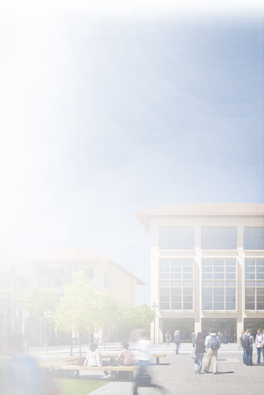
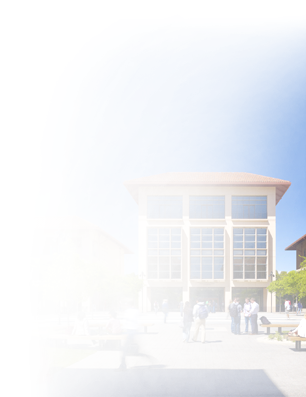
WPBQA-29 twiiter feed links and background

diff --git a/css/style.css b/css/style.css
@@ -4092,7 +4092,7 @@ ul.slideshow-items {
   background: #c1dbd9;
   padding: 28px;
   top: 0;
-  background: url('../images/bg-social-feed.png') no-repeat bottom right, #c1dbd9;
+  background: url('../images/bg-social-feed.png') no-repeat bottom left, #d3eaeb;
 }
 .twitter-feed .pane-content:after {
   content: url('../images/icon-twitter.png');
@@ -4124,6 +4124,8 @@ ul.slideshow-items {
 }
 .tweet a:hover {
   border: none;
+  color: #2d6280;
+  text-decoration: underline;
 }
 .tweet .time {
   margin-top: 7px;

diff --git a/sass/revamp-design/_social-media.sass b/sass/revamp-design/_social-media.sass
@@ -5,7 +5,7 @@
   background: #c1dbd9
   padding: 28px
   top: 0
-  +background((image_url('bg-social-feed.png') no-repeat bottom right), #c1dbd9)
+  +background((image_url('bg-social-feed.png') no-repeat bottom left), #d3eaeb)
   .pane-content
     &:after
       content: image_url("icon-twitter.png")
@@ -31,6 +31,8 @@
     color: $red
     &:hover
       border: none
+      color: $text-blue
+      text-decoration: underline
   .time
     margin-top: 7px
     font-size: 13px
